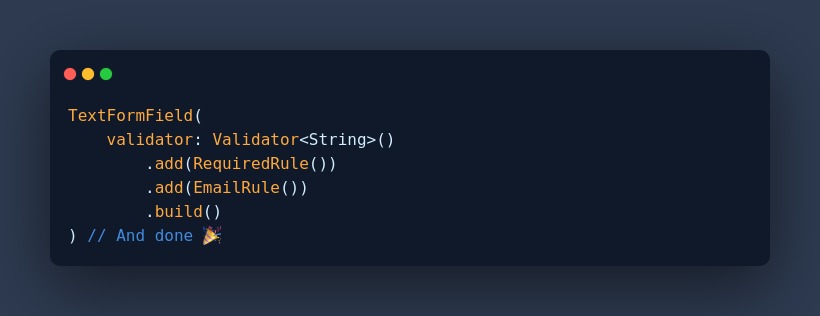
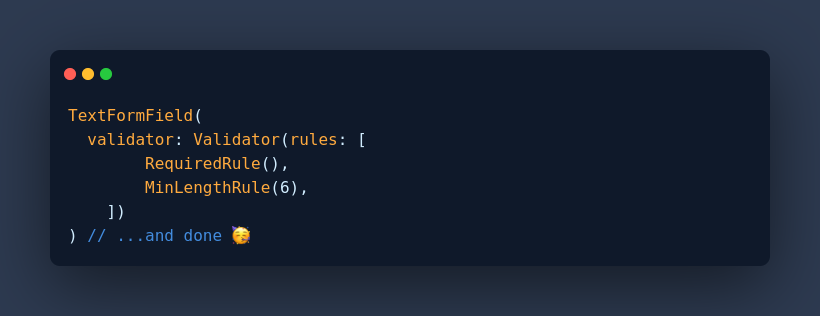
Add rules paramater to validator constructor

diff --git a/test/unit/validator/validator_test.dart b/test/unit/validator/validator_test.dart
@@ -24,6 +24,21 @@ void main() {
     });
   });
 
+  group('Validator with Rules specified in constructor tests', () {
+    Validator<String> customValidator =
+        Validator<String>(rules: <Rule<String>>[RequiredRule(), mockRule]);
+    test('Validator has the ruleslist initialized with the rules in contructor',
+        () {
+      expect(customValidator.rulesList.length, 2);
+    });
+
+    test('Can add rules in validator after being initialized with other rules',
+        () {
+      customValidator.add(MaxLengthRule(20));
+      expect(customValidator.rulesList.length, 3);
+    });
+  });
+
   group('validator_rules_tests', () {
     test('test_validation_has_all_added_rules', () {
       validator.add(mockRule);

diff --git a/lib/src/validator.dart b/lib/src/validator.dart
@@ -8,9 +8,13 @@ import 'package:flrx_validator/src/utils/string_utils.dart';
 /// The error message of the first [Rule] that fails is returned back.
 /// If all the [Rule]s pass, then null is returned.
 class Validator<T> {
-  Validator(
-      {this.entityName = "Entity",
-      this.transformMessage = StringUtils.replaceWithValues});
+  Validator({
+    List<Rule<T>> rules,
+    this.entityName = "Entity",
+    this.transformMessage = StringUtils.replaceWithValues,
+  }) {
+    this.rulesList = rules;
+  }
 
   /// The name of the field that is being evaluated.
   ///

diff --git a/README.md b/README.md
@@ -51,9 +51,9 @@ import 'package:flrx_validator/rules/required_rule.dart';
 ....
 
 TextFormField(
-    validator: Validator<String>()
-        .add(RequiredRule())
-        .add(EmailRule())
+    validator: Validator<String>(
+      rules: [RequiredRule(), EmailRule()]
+    )
 );
 
 ....

diff --git a/doc/README.md b/doc/README.md
@@ -8,9 +8,9 @@ It is as simple as doing the following:
 
 ```dart
 TextFormField(
-    validator: Validator<String>()
-        .add(RequiredRule())
-        .add(EmailRule())
+    validator: Validator<String>(
+      rules: [RequiredRule(), EmailRule()]
+    )
 );
 ```
 
